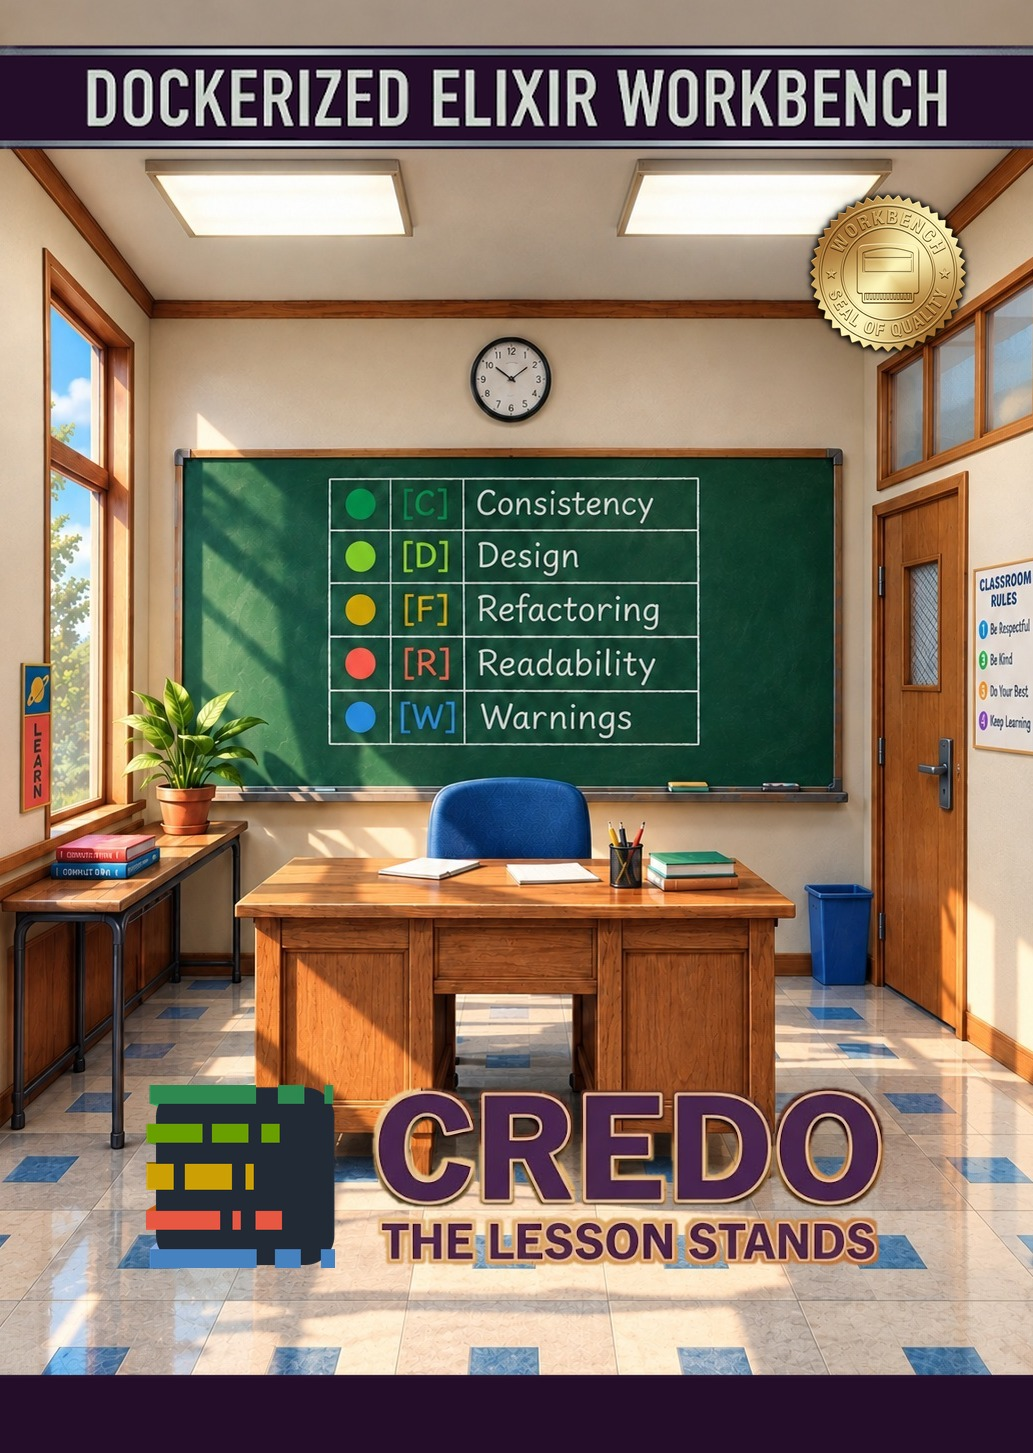
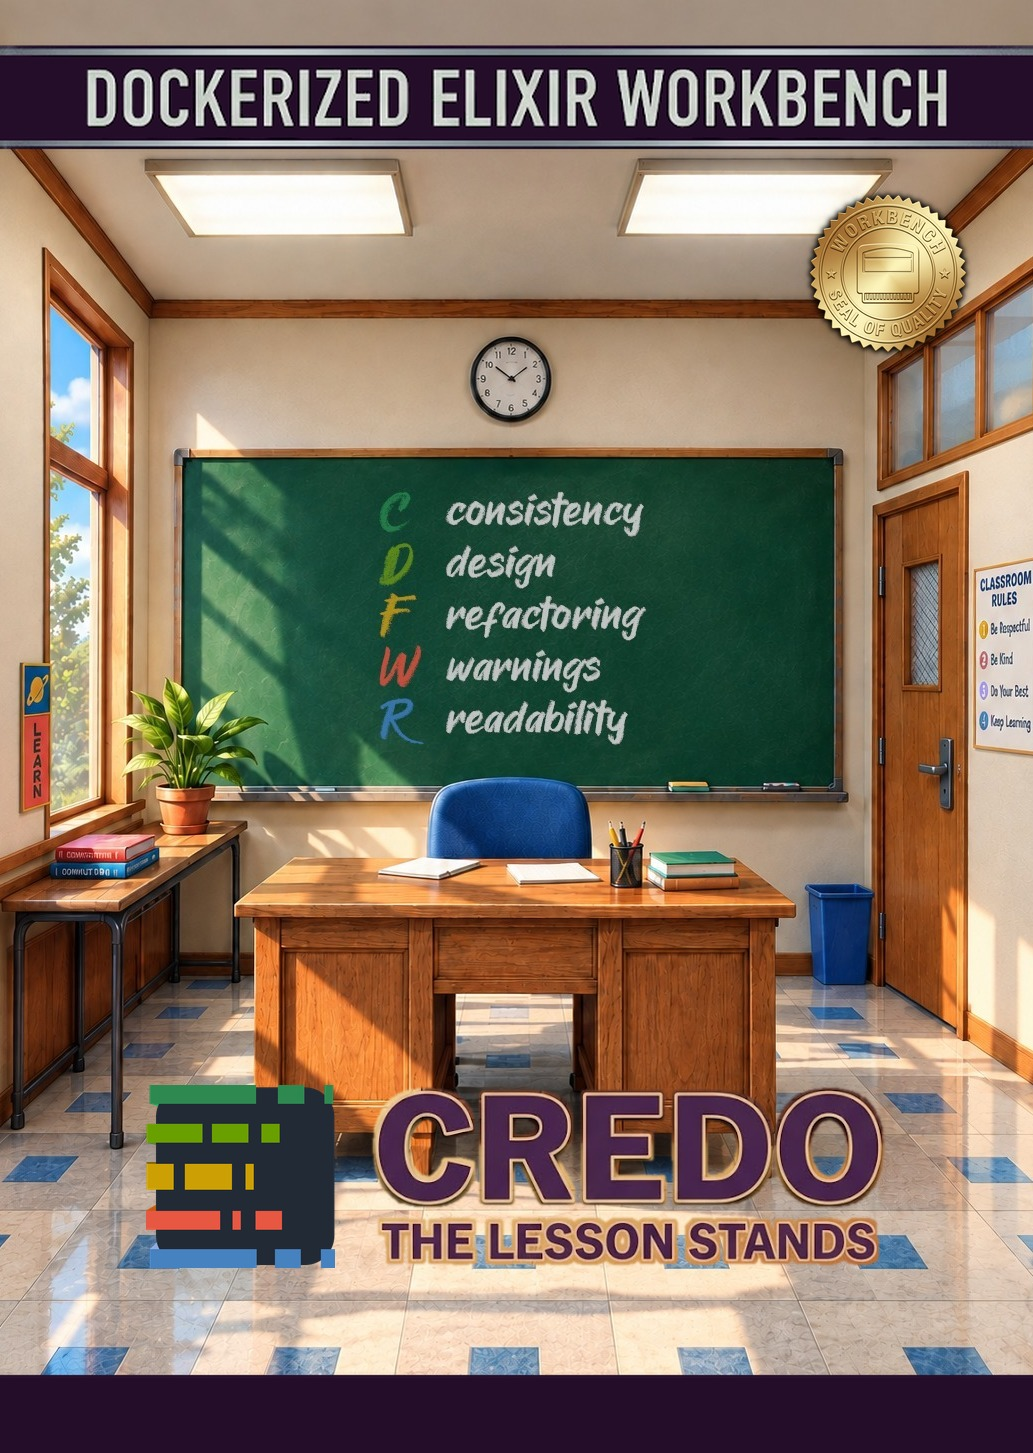
credo's board in chalk
The author rewrote the board on the expansion: the five categories in
chalk after coloured initials, the ruled table gone. Cut and stamped as
change 2 was; logged as entry 3, after the fact. It reads C, D, F, W, R,
the last two swapped against the mark's bars: open.

diff --git a/assets/covers/README.md b/assets/covers/README.md
@@ -142,7 +142,7 @@ rather than read back off a cover.
 | db_admin | console, late 80s — proposal 4, the alternative, chosen against an early-carton recommendation; the second console cover after exdebug. The box that pgadmin and adminer merged into; neither had art | lucid — the mechanism lets you see what you had been handling blind, laid out as it is, and leaves the hands to you; added for this cartridge | tr, `--size 0.19`, `--mark pgAdmin=marks/1-pgadmin.png --mark phpMyAdmin=marks/2-phpmyadmin.png --mark Adminer=marks/3-adminer.png --mark CloudBeaver=marks/4-cloudbeaver.png` — two turns under the banner, hero at 4:5 (825×1024) with its own lockup and no flash, first take; the expansion found at 1.00, edge-padded 5–15px within tolerance. The badge is the four admins' own marks, the author's call: composited by `--mark`, never asked of the generator — the projects' files, in `marks/` with `SOURCES.md` (the author's reference image had DBeaver's beaver for CloudBeaver, phpMyAdmin's legacy schooner and Adminer without its `<?`) — a row of rounded squares, each name under it, centred along the top of the window, where the hero keeps its top fifth calm. The seal at the default 0.23 met the row's last square at tr and covered the subtitle's P at br: 0.19 at tr, the row at 0.06 of the window's height Back on the first plate: console, violet board with a hard gradient, the embossed shield holding the door's four portholes as circles, nothing lettered; its band came back tan and lighter and was kept, the strip set inside it (`NAME_Y=1.298`, `INSTALL_ROW=beside`). Two frames at the shots' 580:503, 0.40 of the width each, off two probes seeded with a plant's production lines and downtime: Adminer on Postgres and phpMyAdmin on MySQL, each opened through the file the box writes, cropped to the table at about 2×; the copy from `NEED.md` and `DESIGN.md`, headline *No more SQL in the dark*, badge `4 ADMINS` (the front's marks, counted); `ERA=console`, accent the vault's orange `#FC8133` |
 | precommit | manual — made in conversation with the generator from proposal 3 (the editorial cover) as its starting point, and the era left behind with it: what came back is a photographic door, not a printed editorial ground. The image is the source, `cover.prompt.txt` its log of changes | scrupulous — the mechanism holds back what you were about to send, over something small, and holds it because you fitted it there and for nobody else; subtitles halt (`NOT YET`). New for this cartridge | tr, `--inside`, `--size 0.20`, **no badge** — the typeset `4 CHECKS` was stamped once and taken off: a white chip reads as a sticker from another system on photographic art, and this hero composes its own lettering (`PreCommit` / `Not yet.`, title case, uncorrected — the image is the source). The expansion made by hand, not by the second turn (`precommit/expand.py`), since the margins are wood grain rather than flat fields: the hero's own edge rows and columns repeated outward, and every pixel of it falls under the board. Two generated takes are archived before it, with their prompts, and the editorial hero's sealed cover and expansion with the second. Kept against the format block's value clause on purpose: the art means 41.5 in luminance against the board's 56.1, and in the seal's corner 52.3 — not *clearly* darker. It reads as a socket all the same, and the reason is the overlay: a banner meets the art along the top and the foot only, where this hero is at its darkest, and the sides are open. One cover is not evidence enough to touch the clause. Back on the first plate, manual like the front: asked from the hero as the reference image, it came back violet and lit from the right like the door, the chain ghosted straight down its middle and the door's wood as the strip, nothing lettered — and a photographed 3–4px rim, trimmed rather than regenerated (the plate as it came is `back-1`). Two real terminal shots from a scratch project, a commit refused by the formatter in the container and the hook's two blocks; accent `#B9A88A`, the hero's aged brass at its brightest; the `4 CHECKS` badge the front does not carry, since on the back everything is typeset |
 | test_doubles | manual — made in conversation with the generator from proposal 5 (CD-ROM, early 90s) as the starting point, after the editorial prompt (proposal 3, as recommended) was written and generated and its take did not read: three handsets seen from above did not say *stand-in*, the whole idea resting on three small debossed captions under objects that are not figures. No editorial take reached the repository, so none is archived. The image is the source, `cover.prompt.txt` its log of changes. The box that takes over from `mock`; mock had no art | understudy — the mechanism sends in a stand-in that plays the part exactly, so the real one is never called and nothing is at risk; added for this cartridge. The other half of mailer's *rehearsing*: there the real thing runs and goes nowhere, here it is not run at all | tr, `--inside`, `--size 0.15`, `-m 0.05,0.0164` — the seal raised 10px off the default inset, to 117px from the face's top, which leaves 12px of window above it: the banner it rests on ends high, and at the default 127px the seal sat low on its frame; 112px put it within 7px of the band and read tight. The manual hero at 4:5 (825×1024) with its own lockup, badge and captions, no furniture; the expansion painted by the second turn, which named what continues on each side — the bridge's ceiling above, the deck's plating and console strip below, the wall's panelling and its recessed screens at the sides — and came back as the padded canvas scaled down whole (727×1024 from 863×1214), hero found at correlation 0.97, edge-padded 2px, 2px and 4px within tolerance, face 730×1027 with the board at 1.00× its own size. A hand expansion was made first (`test_doubles/expand.py`, kept as the fallback): the hero's top and bottom edge rows are one near-flat dark band (stddev 6.9 and 3.9 over the 8 rows at each edge) and continue cleanly, but **this overlay has no board at the sides**, so the 19px slivers `pad` leaves there are on the finished cover, and a repeated column of the bridge's wall panelling shows where a painted one does not — which is the case for sending the turn even when the margins above and below are flat. **A manual hero is never told to keep a corner calm**, and this one came back with lettering in all four: badge at top left, a banner at top right, the lockup across both bottom corners — so the lettering bands were measured in the hero's own fractions before a corner was chosen (banner 0.073–0.857 of the width at 0.03–0.14 of the height; captions to 0.928 at 0.16–0.25), and at 0.23 the seal ate `Hammox` and the top of `BUILT TO SPEC` at tr and the lockup at either bottom corner. Change 1 of the log shortened the banner from `Mimic · Mox · Hammox` to `Mimic · Mox` — which also took a contradiction off the face, the badge counting two doubles beside three names, Hammox being what `--type-check` puts in Mox's place and not a third value of `--double` — and the seal at 0.15 clears every string, resting on the empty right end of the banner's frame  Back on the first plate, manual like the hero and made in conversation, not from the prompt written for it: not a board but an **interior** — a violet bulkhead with a lit panel of gears across the middle, a bench of flasks and two CRTs along the foot, two ghosted sunbursts, nothing lettered. It breaks the pattern the strip assumes, and composes anyway (`back.md`: judge a plate composed, not bare): measured band by band, the ceiling at 0.00-0.12 is the flattest field (stddev 6-10) and takes the two frames; the gears at 0.44-0.70 (stddev 17-24) carry the features, which read over them in the era's black; the plain wall at 0.70-0.80 takes the quote; the dark foot from 0.94 (stddev 11-19) is the band, thin, so `INSTALL_ROW=beside` and the row a step smaller (`NAME_POINT=0.019`, `INSTALL_POINT=0.014`) — at `NAME_Y=1.325` the legal line and the version ran off the face, 1.295 fits them. Two 600:279 frames at 0.40 of the width (2.06x), both terminals off a local `phx.new` probe with coverage installed, which is the cartridge that composes this box: the test helper with coverage's own block and the `mimic` dep behind it, and `mix test` on the cover task — nine green, `0.2s async, 0.00s sync`, the concurrency `mock` had cost it. The shots were cropped to their content and the shorter padded to the other's height, so both frames take one rectangle. The copy from `NEED.md` and `DESIGN.md`, headline *The real one never answers*, the quote Valim's own; the flash's second line cut to two-part versions to fit its box; `ERA=cdrom`, accent the wireframe figure's cyan read off the hero (#B9E6F3) |
-| credo | manual — made by the author outside the repository from proposal 7 (the classroom, the author's own, off Credo's own word for itself, *teaching*) and the classroom drawing that was its reference; the image is the source, `cover.prompt.txt` its log of changes. It replaces a prompted console hero (late 80s) of five takes: 1 carton (27 fractions lettered on the face), 2 not generated, 3 console (6 fractions as a margin scale), 4 accepted and its lockup kept, 5 sealed — the prompted box archived whole as `cover-4*` (hero, padded canvas, expansion, cut, sealed), the manual hero as it arrived as `hero-manual-1.png`. The drawing and its 4:5 crop were deleted by the author | tireless — the same remark the thousandth time as the first, no heat in it (added for credo); subtitle `THE LESSON STANDS` | tr, `--inside --size 0.18`, `--mark credo=marks/1-credo.png --lockup art/lockup.png --lockup-fit 0.50,0.05 --lockup-at 0.5,0.838 --mark-beside-lockup` — Credo's own mark and the title composited as one centred block in the **lower part** of the window, over the desk's legs and the tiled floor (set by the author by eye at 0.838, 100px above the first 0.92), the calmest band of this hero; the seal inside at top right, on the ceiling between the right fixture and the transom windows. The prompted hero had them the other way round (lockup at the top over a bare ceiling, `--seal-at 0.5,0.93`), and on this hero that put the subtitle over the wall clock and the title over both fixtures; straddling tr, the seal covers the banner's `WORKBENCH`. The manual hero at 4:5 (1126×1397), the board chalked with the five groups and their colours, no title, no badge; the expansion painted by the second turn, which came back as the padded canvas scaled down whole (1057×1488 from 1177×1656), hero found at correlation 0.93, face 1033×1453, the board 1.42× its own size. Change 2 put the board's five rows in the colours of Credo's mark, its bars top to bottom (green, lime, mustard, coral, blue), chosen by the author over the terminal's cyan, olive, yellow, blue and red, and corrected `Warning` to *Warnings*; it was sent to the expansion rather than the hero and came back at the expansion's size with nothing else moved, so the hero is cut from the expansion where `cut` had found the first (correlation 1.00). Open: two book spines lettered in non-words. Back on the first plate, from its prompt alone with no reference attached: violet board lit from the upper left like the front, a blind-stamped shield holding **five bars** (the five groups, the mark's echo with no lettering), the band from 1.260; two frames at 600:520 holding real screens off a `phx.new` probe with the cartridge inserted `--githook` — `mix credo` over a shift-report module (three remarks, two of them the front's chalk verbatim) and `cat .githooks/pre-commit` (credo's block above the slow divider) — headline *NOBODY SAYS IT TWICE.*, the quote Credo's README's own first line, `INSTALL_ROW=beside` because two rows ran the legal line and the version off a 0.147 band, `ERA=console`, accent the front's ochre |
+| credo | manual — made by the author outside the repository from proposal 7 (the classroom, the author's own, off Credo's own word for itself, *teaching*) and the classroom drawing that was its reference; the image is the source, `cover.prompt.txt` its log of changes. It replaces a prompted console hero (late 80s) of five takes: 1 carton (27 fractions lettered on the face), 2 not generated, 3 console (6 fractions as a margin scale), 4 accepted and its lockup kept, 5 sealed — the prompted box archived whole as `cover-4*` (hero, padded canvas, expansion, cut, sealed), the manual hero as it arrived as `hero-manual-1.png`. The drawing and its 4:5 crop were deleted by the author | tireless — the same remark the thousandth time as the first, no heat in it (added for credo); subtitle `THE LESSON STANDS` | tr, `--inside --size 0.18`, `--mark credo=marks/1-credo.png --lockup art/lockup.png --lockup-fit 0.50,0.05 --lockup-at 0.5,0.838 --mark-beside-lockup` — Credo's own mark and the title composited as one centred block in the **lower part** of the window, over the desk's legs and the tiled floor (set by the author by eye at 0.838, 100px above the first 0.92), the calmest band of this hero; the seal inside at top right, on the ceiling between the right fixture and the transom windows. The prompted hero had them the other way round (lockup at the top over a bare ceiling, `--seal-at 0.5,0.93`), and on this hero that put the subtitle over the wall clock and the title over both fixtures; straddling tr, the seal covers the banner's `WORKBENCH`. The manual hero at 4:5 (1126×1397), the board chalked with the five groups and their colours, no title, no badge; the expansion painted by the second turn, which came back as the padded canvas scaled down whole (1057×1488 from 1177×1656), hero found at correlation 0.93, face 1033×1453, the board 1.42× its own size. Change 2 put the board's five rows in the colours of Credo's mark, its bars top to bottom (green, lime, mustard, coral, blue), chosen by the author over the terminal's cyan, olive, yellow, blue and red, and corrected `Warning` to *Warnings*; it was sent to the expansion rather than the hero and came back at the expansion's size with nothing else moved, so the hero is cut from the expansion where `cut` had found the first (correlation 1.00). Change 3, made by the author and logged after it, rewrote the board in chalk — lowercase words after coloured chalk initials, the ruled table gone — sent to the expansion again and cut and stamped as change 2 was; it reads C, D, F, W, R, the last two swapped against the mark's bars. Open: two book spines lettered in non-words. Back on the first plate, from its prompt alone with no reference attached: violet board lit from the upper left like the front, a blind-stamped shield holding **five bars** (the five groups, the mark's echo with no lettering), the band from 1.260; two frames at 600:520 holding real screens off a `phx.new` probe with the cartridge inserted `--githook` — `mix credo` over a shift-report module (three remarks, two of them the front's chalk verbatim) and `cat .githooks/pre-commit` (credo's block above the slow divider) — headline *NOBODY SAYS IT TWICE.*, the quote Credo's README's own first line, `INSTALL_ROW=beside` because two rows ran the legal line and the version off a 0.147 band, `ERA=console`, accent the front's ochre |
 | test_data | editorial cover, mid 80s — proposal 3, as recommended; the first editorial cover on the shelf (precommit's editorial take was left for a manual door). The box exmachina was renamed into; it had no art | supporting — the mechanism supplies everyone the scene needs, plausible and forgettable, so the one you came for stands alone where you can see it (added for test_data); subtitle `THE REST ARE EXTRAS` | tr, `--inside --size 0.20`, no `--badge` (the hero's own debossed `4 RULES` came back right at the top left). One take: seven paper dolls from one strip, six with one graphite detail each, the centre one coloured violet with `ANA` on its chest, lockup and flash lettered by the generator. Its margins are one flat warm grey, so no second turn: `test_data/expand.py` repeats the hero's edge rows and columns (precommit's recipe), and `cut` found the hero at correlation 0.99. Back on the second plate (the first came back 4:5 with a floating band, archived as `back-1`): even violet coated stock, the era's colophon debossed — an oval with one paper doll inside, arms out — the band from 1.272; two frames at 600:520 holding real screens off a `phx.new` probe — `mix test --trace` over the factory test, two factories inserting and `orphan_post` failing by name on the foreign key, and the factory module's four rules above its factories — headline *EVERYONE ELSE IS CAST.*, the quote Pryce's, `INSTALL_ROW=beside`, `ERA=editorial`, accent the front's paper `#F3E8D5` (its violet disappears on a violet back). A small square blemish on the plate falls under the second frame |
 
 When `NEED.md` joined the cartridge anatomy (2026-08-30) the five
